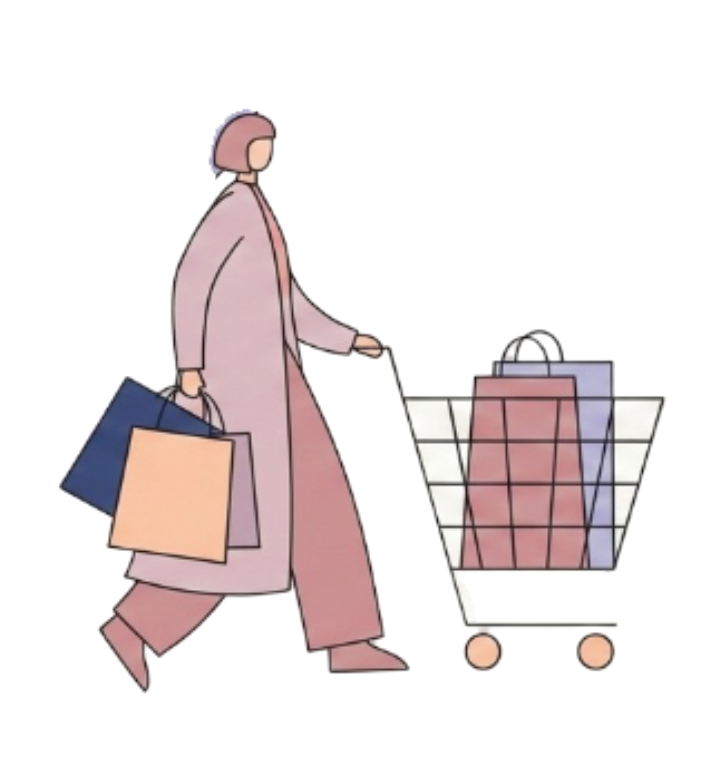
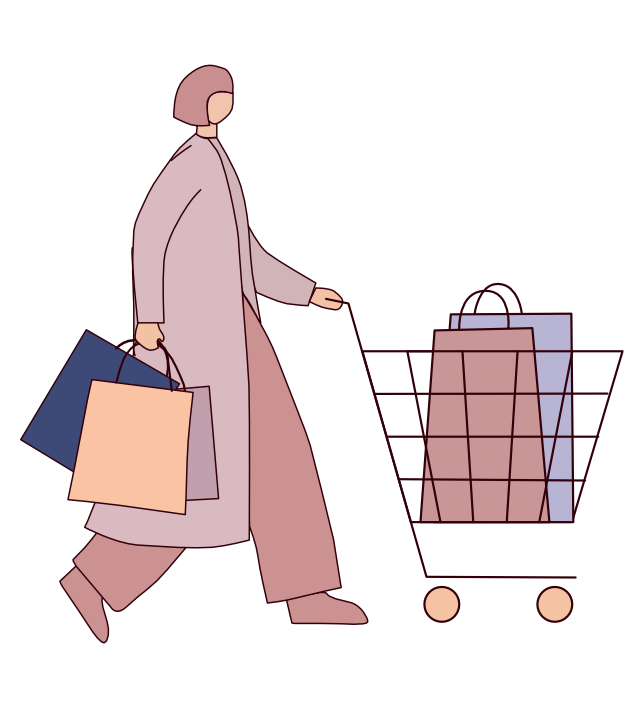
redesigned login page and added illustrations and designed the structure of shops page and fixed other minor bugs

Changed region(s): [[0.0312, 0.0917, 0.9672, 0.9167]]

diff --git a/src/components/cards/card.css b/src/components/cards/card.css
@@ -18,10 +18,7 @@
     }
 }
 
-.product__image,
-.product__name,
-.product__price,
-.product__button {
+.skeleton__loader {
     background: linear-gradient(90deg, var(--background-color) 25%, #f0f0f0 50%, var(--background-color) 75%);
     background-size: 200% 100%;
     animation: shimmer 1.5s infinite;
@@ -87,3 +84,66 @@
     background-color: var(--background-color);
     border-radius: 1rem;
 }
+
+.shops__header {
+    display: flex;
+    justify-content: space-between;
+    align-items: baseline;
+    width: 100%;
+    margin-bottom: 1rem;
+    border-bottom: 1px solid var(--background-color);
+}
+
+.shops {
+    display: grid;
+    grid-template-columns: repeat(auto-fill, minmax(400px, 1fr));
+    gap: 1rem;
+    margin-top: 1rem;
+}
+
+.shop__card {
+    width: 100%;
+    display: flex;
+    flex-direction: row;
+    gap: 1rem;
+}
+
+.shop__logo {
+    display: block;
+    width: 100%;
+    max-width: 5rem;
+    aspect-ratio: 1/1;
+    border-radius: 1rem;
+    background-color: var(--background-color);
+}
+
+.shop__group {
+    display: flex;
+    flex-direction: column;
+    align-items: left;
+    justify-content: center;
+    width: 100%;
+    gap: 1rem;
+}
+
+.shop__name {
+    font-size: 1.5rem;
+    font-weight: bold;
+    text-align: left;
+    width: 80%;
+    height: 1.5rem;
+    border-radius: 1rem;
+    background-color: var(--background-color);
+}
+
+.shop__link {
+    font-size: 1.5rem;
+    font-weight: bold;
+    text-align: left;
+    width: 50%;
+    height: 1.5rem;
+    background-color: var(--background-color);
+    border-radius: 1rem;
+}
+
+

diff --git a/src/pages/products/Products.tsx b/src/pages/products/Products.tsx
@@ -11,18 +11,20 @@ const Products = () => {
         <>
             <Header navbar={true} /> 
             <div>
-                <section className='section' >
-                    <h3>Products</h3>
-                    <div className='products-grid'>
-                        <ProductCard orientation='grid' />
-                        <ProductCard orientation='grid' />
-                        <ProductCard orientation='grid' />
-                        <ProductCard orientation='grid' />
-                        <ProductCard orientation='grid' />
-                        <ProductCard orientation='grid' />
-                        <ProductCard orientation='grid' />
-                    </div>
-                </section>
+                <main className='center__content'>
+                    <section className='section' >
+                        <h3>Products</h3>
+                        <div className='products-grid'>
+                            <ProductCard orientation='grid' />
+                            <ProductCard orientation='grid' />
+                            <ProductCard orientation='grid' />
+                            <ProductCard orientation='grid' />
+                            <ProductCard orientation='grid' />
+                            <ProductCard orientation='grid' />
+                            <ProductCard orientation='grid' />
+                        </div>
+                    </section>
+                </main>
             </div>
         </>
     )

diff --git a/src/index.css b/src/index.css
@@ -52,7 +52,10 @@
 
   /* variables */
   --background-color: #E0E0E0;
+  
   --background-color-lighter: #EDEDED;
+  --background-gradient: linear-gradient(177deg,rgba(237, 237, 237, 1) 0%, rgba(197, 197, 219, 1) 73%, rgba(182, 182, 207, 1) 85%, rgba(155, 155, 212, 1) 100%);
+
   --panel-color-dark: #211F49;
   --panel-color-darker: #181736;
   --panel-color-dark-hover:#100f24;
@@ -76,7 +79,8 @@
 
 
   --primary-color-active-hover: #6c7dd6;
-  --secondary-color: #f2f2f2;
+  --secondary-colorr: #f2f2f2;
+  --secondary-color: hsl(200 0% 98% / 0.8);
   --secondary-color-lighter: #fafafa;
   --secondary-color-lightest: hsl(200, 0%, 98%);
 
@@ -153,6 +157,8 @@ h6 {
 
 body {
   background-color: var(--background-color);
+  background: var(--background-gradient);
+  min-height: 100vh;
 }
 
 header {
@@ -196,6 +202,33 @@ header {
 
 .animation__clone {
   transition: all 0.3s ease-in-out;
+}
+
+.auth {
+  position: relative;
+  background: url("./assets/shoppers/auth-bg.png");
+  z-index: 1;
+  min-height: 100vh;
+  container-type: inline-size;
+  container-name: auth;
+  max-width: 1480px;
+  margin: 0 auto;
+
+  & .background__img {
+    position: absolute;
+    width: 40%;
+    max-width: 350px;
+    bottom: 14%;
+    z-index: -10;
+  }
+
+  & img.ilustration-left {
+    left: 0;
+  }
+
+  & img.ilustration-right {
+    right: 0;
+  }
 }
 
 @keyframes spin {

diff --git a/src/components/cards/ProductCard.tsx b/src/components/cards/ProductCard.tsx
@@ -5,16 +5,18 @@ import "./card.css"
 
 interface ProductCardProps {
     orientation?: string;
+    className?: string;
+    loading?: boolean;
 }
 
-function ProductCard({ orientation = "row" }: ProductCardProps) {
+function ProductCard({ orientation = "row", className, loading = true }: ProductCardProps) {
     return (
-        <div className={`product__card ${orientation}`}>
-            <span className="product__image"></span>
-            <span className="product__name"></span>
+        <div className={`product__card ${orientation} ${className}`}>
+            <span className={`product__image  ${loading ? "skeleton__loader" : ""}`}></span>
+            <span className={`product__name ${loading ? "skeleton__loader" : ""}`}></span>
             <span className="product__actions">
-                <span className="product__price"></span>
-                <span className="product__button"></span>
+                <span className={`product__price ${loading ? "skeleton__loader" : ""}`}></span>
+                <span className={`product__button ${loading ? "skeleton__loader" : ""}`}></span>
             </span>
         </div>
     )

diff --git a/src/components/contents/search/Search.tsx b/src/components/contents/search/Search.tsx
@@ -6,13 +6,31 @@ import { calculateSearchWidth } from "../../../utils/SearchWidth"
 
 function Search() {
     const [searchWidth, setSearchWidth] = useState<string>("60vw");
-    const [windowWidth] = useState<number>(window.innerWidth);
+    const [windowWidth, setWindowWidth] = useState<number>(window.innerWidth);
+
+    useEffect(() => {
+        const handleResize = () => {
+            setWindowWidth(window.innerWidth);
+        };
+
+        window.addEventListener('resize', handleResize);
+
+        // Calculate initial width
+        const width = calculateSearchWidth();
+        if (width) {
+            setSearchWidth(width);
+        }
+
+        return () => {
+            window.removeEventListener('resize', handleResize);
+        };
+    }, []);
 
     useEffect(() => {
         const width = calculateSearchWidth();
-        if (!width) return;
-        setSearchWidth(width);
-
+        if (width) {
+            setSearchWidth(width);
+        }
     }, [windowWidth]);
 
     return (

diff --git a/src/pages/shops/Shops.tsx b/src/pages/shops/Shops.tsx
@@ -1,0 +1,36 @@
+
+import Header from '../../components/header/Header'
+import ShopCard from '../../components/cards/ShopCard'
+import Button from '../../components/buttons/button'
+
+
+function Shops() {
+  return (
+    <>
+      <Header navbar={true}/>
+      <main className='center__content'>
+        <section className='section'>
+
+            <div className='shops__header'><h3>Shops</h3> <Button type="secondary" className="pill__btn" id="panel-button" content="New Shop" /></div>
+            <div className='shops'>    
+                <ShopCard/>
+                <ShopCard/>
+                <ShopCard/>
+                <ShopCard/>
+                <ShopCard/>
+                <ShopCard/>
+                <ShopCard/>
+                <ShopCard/>
+                <ShopCard/>
+                <ShopCard/>
+                <ShopCard/>
+                <ShopCard/>
+            </div>
+        </section>
+        
+      </main>
+    </>
+  )
+}
+
+export default Shops

diff --git a/src/pages/Home.tsx b/src/pages/Home.tsx
@@ -5,13 +5,14 @@ function Home() {
   return (
     <div className='main-page'>
       <Header navbar={true} />
-      <div className='sections'>
-          <Section title="Best Sellers" />
-          <Section title="New Arrivals" />
-          <Section title="Just Added Products" />
-          <Section title="Best Deals" />  
-      </div>
-         
+      <main>
+        <div className='sections'>
+            <Section title="Best Sellers" />
+            <Section title="New Arrivals" />
+            <Section title="Just Added Products" />
+            <Section title="Best Deals" />  
+        </div>
+      </main>         
     </div>
   )
 }

diff --git a/src/components/cards/ShopCard.tsx b/src/components/cards/ShopCard.tsx
@@ -1,0 +1,20 @@
+
+interface ShopCardProps {
+    orientation?: string;
+    className?: string;
+    loading?: boolean;
+}
+
+function ShopCard({ orientation , className, loading = true }: ShopCardProps) {
+  return (
+    <div className={`shop__card ${orientation} ${className}`}>
+        <span className={`shop__logo ${loading ? "skeleton__loader" : ""}`}></span>
+        <span className="shop__group">
+            <span className={`shop__name ${loading ? "skeleton__loader" : ""}`}></span>
+            <span className={`shop__link ${loading ? "skeleton__loader" : ""}`}></span>
+        </span>
+    </div>
+  )
+}
+
+export default ShopCard

diff --git a/src/components/contents/navBar/NavBarContent.tsx b/src/components/contents/navBar/NavBarContent.tsx
@@ -1,5 +1,6 @@
 import { Link } from "react-router-dom"
 import { useState } from "react"
+import "./nav-content.css"
 
 import Button from "../../buttons/button"
 import ShopSvg from "../../../assets/svg/shops"
@@ -13,8 +14,8 @@ function NavBarContent() {
 
   return (
     <ul className="panel__list">
-      <div className="center-content" >
-        {userName && <UserSvg size={70} /> }
+      <div className="center__content panel__user" >
+        {userName && <UserSvg size={70} fill="var(--secondary-color)" /> }
         {userName &&  <h4>{userName}</h4> }
       </div>
       

diff --git a/src/pages/Auth.tsx b/src/pages/Auth.tsx
@@ -35,15 +35,19 @@ function SignIn() {
 
 
   return (
-    <main>
-      <Header />
+    <div>
+    <Header />
+    <main className="auth">
+      
       <div className="auth__card">
         <Card content={Form(formType, userEmail)} />
       </div>
-
-     <img src={shoppeerRight} alt="shoppeer-right" />
+      <img className="background__img ilustration-left" src={shoppeerLeft} alt="shoppeer-left" />
+      <img className="background__img ilustration-right" src={shoppeerRight} alt="shoppeer-right" />
 
     </main>
+
+    </div>
   )
 }
 

diff --git a/src/App.tsx b/src/App.tsx
@@ -3,6 +3,7 @@ import './App.css'
 import Home from './pages/Home'
 import SignIn from './pages/Auth'
 import Products from './pages/products/Products'
+import Shops from './pages/shops/Shops'
 
 function App() {
 
@@ -13,6 +14,7 @@ function App() {
         <Route path="/home" element={<Home />} />
         <Route path="/auth" element={<SignIn />} />
         <Route path="/products" element={<Products />} />
+        <Route path="/shops" element={<Shops/>} />
       </Routes>
     </>
   )

diff --git a/src/components/contents/sections/sections.css b/src/components/contents/sections/sections.css
@@ -1,14 +1,15 @@
 .section {
     padding: 2rem 1rem 2rem 2rem;
-    margin: 1rem;
+    margin-top: 1rem;
+    margin-bottom: 1rem;
     border-radius: 1rem;
-    background-color: var(--secondary-color-lightest);
+    background-color: var(--secondary-color);
     width: 95%;
     max-width: 1480px;
     transition: all 0.3s ease-in-out;
 
     & h3 {
-        padding: 0rem 0 1rem 0;
+        padding: 0rem 0 0.6rem 0;
     }
 }
 
@@ -44,3 +45,5 @@
     width: 100%;
     gap: 0.5rem;
 }
+
+
